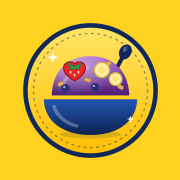
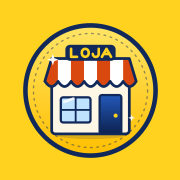
Add files via upload

Changed region(s): [[0.2222, 0.2222, 0.7778, 0.7778]]

diff --git a/painel-alerta.js b/painel-alerta.js
@@ -401,7 +401,7 @@ nav button[aria-current="page"]::before{filter:none;opacity:1;transform:translat
   var st=document.createElement('style');
   st.textContent='header{text-align:center}#logo{display:block;width:80px;height:80px;margin:0 auto 6px;filter:drop-shadow(0 8px 12px rgba(0,0,0,.35));animation:logoIn .7s cubic-bezier(.2,1.3,.4,1) both,logoFloat 4.5s ease-in-out .8s infinite}#logo svg{display:block;width:100%;height:100%}#ptag{display:inline-block;margin:0 0 6px;padding:2px 12px;border-radius:99px;background:rgba(255,255,255,.16);color:#fff;font-size:11px;font-weight:800;letter-spacing:.1em;text-transform:uppercase}@keyframes logoIn{from{opacity:0;transform:scale(.6) rotate(-10deg)}}@keyframes logoFloat{0%,100%{transform:translateY(0)}50%{transform:translateY(-4px)}}@media (prefers-reduced-motion:reduce){#logo{animation:none}}';
   document.head.appendChild(st);
-  var d=document.createElement('div');d.id='logo';d.innerHTML=`<svg xmlns="http://www.w3.org/2000/svg" viewBox="0 0 120 120" role="img" aria-label="Loja Andrea"><defs><linearGradient id="lgBg" x1="0" y1="0" x2="0" y2="1"><stop offset="0" stop-color="#ffe566"/><stop offset="1" stop-color="#ffbf00"/></linearGradient><linearGradient id="lgBowl" x1="0" y1="0" x2="0" y2="1"><stop offset="0" stop-color="#2358b8"/><stop offset="1" stop-color="#0d2250"/></linearGradient><linearGradient id="lgAcai" x1="0" y1="0" x2="0" y2="1"><stop offset="0" stop-color="#9b4dc4"/><stop offset="1" stop-color="#4b1c70"/></linearGradient><radialGradient id="lgShine" cx=".3" cy=".25" r=".7"><stop offset="0" stop-color="#fff" stop-opacity=".55"/><stop offset="1" stop-color="#fff" stop-opacity="0"/></radialGradient></defs><circle cx="60" cy="60" r="57" fill="url(#lgBg)" stroke="#10295a" stroke-width="4"/><circle cx="60" cy="60" r="50" fill="none" stroke="#10295a" stroke-width="1.2" stroke-dasharray="1.5 4" stroke-linecap="round" opacity=".45"/><ellipse cx="60" cy="98.5" rx="27" ry="3.6" fill="#10295a" opacity=".16"/><g transform="translate(80 46) rotate(28) scale(.8)"><rect x="-2.2" y="-26" width="4.4" height="32" rx="2.2" fill="#10295a"/><ellipse cx="0" cy="-28" rx="6.6" ry="8.6" fill="#10295a"/><ellipse cx="-1.7" cy="-30.6" rx="2" ry="3.4" fill="#fff" opacity=".25"/></g><path d="M26 66C26 43 40 30 60 30s34 13 34 36z" fill="url(#lgAcai)"/><path d="M26 66C26 43 40 30 60 30s34 13 34 36z" fill="url(#lgShine)"/><path d="M36 54c5-9 12-13 21-14" fill="none" stroke="#fff" stroke-opacity=".3" stroke-width="3.2" stroke-linecap="round"/><g fill="#e2b265" stroke="#b9853a" stroke-width=".6"><rect x="31" y="53" width="5.5" height="3.2" rx="1.4" transform="rotate(-28 33 54)"/><rect x="55" y="49" width="5.5" height="3.2" rx="1.4" transform="rotate(14 57 50)"/><rect x="84" y="55" width="5.5" height="3.2" rx="1.4" transform="rotate(32 86 56)"/><rect x="73" y="35" width="5" height="3" rx="1.4" transform="rotate(-18 75 36)"/></g><g stroke="#d9b13c" stroke-width="1.1"><circle cx="70" cy="42" r="6.6" fill="#fff0a8"/><circle cx="70" cy="42" r="3" fill="#ffe27a" stroke="none"/><circle cx="82" cy="50" r="5.6" fill="#fff0a8"/><circle cx="82" cy="50" r="2.5" fill="#ffe27a" stroke="none"/></g><path d="M46 36.5c-3.4-3.4-10-1.2-9.6 4.3.4 4.6 5.4 8.6 9.6 10.7 4.2-2.1 9.2-6.1 9.6-10.7.4-5.5-6.2-7.7-9.6-4.3z" fill="#e8252b" stroke="#a81218" stroke-width="1"/><path d="M40.5 36l5.5 3.2 5.5-3.2-1.8 5.2h-7.4z" fill="#2fa04e" stroke="#1f7a39" stroke-width=".8" stroke-linejoin="round"/><g fill="#ffe3b0"><ellipse cx="42.5" cy="44" rx=".8" ry="1.2"/><ellipse cx="46" cy="46.5" rx=".8" ry="1.2"/><ellipse cx="49.5" cy="44" rx=".8" ry="1.2"/></g><g><circle cx="38" cy="58" r="3.6" fill="#2b2f7a"/><circle cx="37" cy="57" r="1" fill="#fff" opacity=".6"/><circle cx="64" cy="57" r="3.6" fill="#2b2f7a"/><circle cx="63" cy="56" r="1" fill="#fff" opacity=".6"/></g><path d="M19 66h82c0 22-18 33-41 33S19 88 19 66z" fill="url(#lgBowl)"/><path d="M19 66h82" stroke="#ffd21f" stroke-width="3.4" stroke-linecap="round"/><path d="M28 74c3 9 11 15 20 17" fill="none" stroke="#fff" stroke-opacity=".28" stroke-width="3" stroke-linecap="round"/><path transform="translate(27 31)" d="M0-5 1.3-1.3 5 0 1.3 1.3 0 5-1.3 1.3-5 0-1.3-1.3Z" fill="#fff" opacity=".95"/><path transform="translate(95 85) scale(.6)" d="M0-5 1.3-1.3 5 0 1.3 1.3 0 5-1.3 1.3-5 0-1.3-1.3Z" fill="#fff" opacity=".9"/></svg>`;
+  var d=document.createElement('div');d.id='logo';d.innerHTML=`<svg xmlns="http://www.w3.org/2000/svg" viewBox="0 0 120 120" role="img" aria-label="Loja"><defs><linearGradient id="lgBg" x1="0" y1="0" x2="0" y2="1"><stop offset="0" stop-color="#ffe566"/><stop offset="1" stop-color="#ffbf00"/></linearGradient><linearGradient id="lgNavy" x1="0" y1="0" x2="0" y2="1"><stop offset="0" stop-color="#2358b8"/><stop offset="1" stop-color="#0d2250"/></linearGradient><clipPath id="lgClip"><path d="M20 52L26 32H94L100 52q-5.7 9-11.4 0q-5.7 9-11.4 0q-5.7 9-11.4 0q-5.7 9-11.4 0q-5.7 9-11.4 0q-5.7 9-11.4 0q-5.7 9-11.4 0Z"/></clipPath></defs><circle cx="60" cy="60" r="57" fill="url(#lgBg)" stroke="#10295a" stroke-width="4"/><circle cx="60" cy="60" r="50" fill="none" stroke="#10295a" stroke-width="1.2" stroke-dasharray="1.5 4" stroke-linecap="round" opacity=".45"/><ellipse cx="60" cy="99" rx="31" ry="3.6" fill="#10295a" opacity=".16"/><rect x="26" y="52" width="68" height="46" rx="3" fill="#fff7e6" stroke="#10295a" stroke-width="2.4"/><rect x="34" y="66" width="26" height="22" rx="2" fill="#bfe3ff" stroke="#10295a" stroke-width="2"/><path d="M34 77h26M47 66v22" stroke="#10295a" stroke-width="1.6"/><path d="M37 70l8-3" stroke="#fff" stroke-width="2.2" stroke-linecap="round" opacity=".85"/><rect x="68" y="64" width="19" height="34" rx="2" fill="url(#lgNavy)" stroke="#10295a" stroke-width="2"/><circle cx="82" cy="82" r="1.8" fill="#ffd21f"/><g clip-path="url(#lgClip)"><rect x="20" y="30" width="80" height="34" fill="#fff"/><rect x="20.00" y="32" width="11.43" height="32" fill="#d9480f"/><rect x="42.86" y="32" width="11.43" height="32" fill="#d9480f"/><rect x="65.72" y="32" width="11.43" height="32" fill="#d9480f"/><rect x="88.58" y="32" width="11.43" height="32" fill="#d9480f"/></g><path d="M20 52L26 32H94L100 52q-5.7 9-11.4 0q-5.7 9-11.4 0q-5.7 9-11.4 0q-5.7 9-11.4 0q-5.7 9-11.4 0q-5.7 9-11.4 0q-5.7 9-11.4 0Z" fill="none" stroke="#10295a" stroke-width="2.4" stroke-linejoin="round"/><rect x="38" y="20" width="44" height="14" rx="4" fill="#10295a"/><g fill="none" stroke="#ffd21f" stroke-width="2.3" stroke-linecap="round" stroke-linejoin="round"><path d="M43 23.5V30.5H48.2"/><rect x="52.4" y="23.5" width="6" height="7" rx="3"/><path d="M67.2 23.5V28a2.6 2.6 0 0 1-5.2 0"/><path d="M70 30.5L74 23.5L78 30.5M71.8 28H76.2"/></g><path transform="translate(27 33)" d="M0-5 1.3-1.3 5 0 1.3 1.3 0 5-1.3 1.3-5 0-1.3-1.3Z" fill="#fff" opacity=".95"/><path transform="translate(96 84) scale(.6)" d="M0-5 1.3-1.3 5 0 1.3 1.3 0 5-1.3 1.3-5 0-1.3-1.3Z" fill="#fff" opacity=".9"/></svg>`;
   var g=document.createElement('div');g.id='ptag';g.textContent='Painel do dono';
   h.insertBefore(d,h.firstChild);d.after(g);
 })();

diff --git a/acai-tab.js b/acai-tab.js
@@ -253,7 +253,7 @@ var prep=0,pbox=null,pn=null;
   var st=document.createElement('style');
   st.textContent='#logo{display:block;width:88px;height:88px;margin:0 auto 6px;filter:drop-shadow(0 8px 10px rgba(16,41,90,.3));animation:logoIn .7s cubic-bezier(.2,1.3,.4,1) both,logoFloat 4.5s ease-in-out .8s infinite}#logo svg{display:block;width:100%;height:100%}header .hrow{flex-direction:column;align-items:center;text-align:center;position:relative}header .hrow #outb{position:absolute;right:0;top:0}@keyframes logoIn{from{opacity:0;transform:scale(.6) rotate(-10deg)}}@keyframes logoFloat{0%,100%{transform:translateY(0)}50%{transform:translateY(-4px)}}@media (prefers-reduced-motion:reduce){#logo{animation:none}}';
   document.head.appendChild(st);
-  var d=document.createElement('div');d.id='logo';d.innerHTML=`<svg xmlns="http://www.w3.org/2000/svg" viewBox="0 0 120 120" role="img" aria-label="Loja Andrea"><defs><linearGradient id="lgBg" x1="0" y1="0" x2="0" y2="1"><stop offset="0" stop-color="#ffe566"/><stop offset="1" stop-color="#ffbf00"/></linearGradient><linearGradient id="lgBowl" x1="0" y1="0" x2="0" y2="1"><stop offset="0" stop-color="#2358b8"/><stop offset="1" stop-color="#0d2250"/></linearGradient><linearGradient id="lgAcai" x1="0" y1="0" x2="0" y2="1"><stop offset="0" stop-color="#9b4dc4"/><stop offset="1" stop-color="#4b1c70"/></linearGradient><radialGradient id="lgShine" cx=".3" cy=".25" r=".7"><stop offset="0" stop-color="#fff" stop-opacity=".55"/><stop offset="1" stop-color="#fff" stop-opacity="0"/></radialGradient></defs><circle cx="60" cy="60" r="57" fill="url(#lgBg)" stroke="#10295a" stroke-width="4"/><circle cx="60" cy="60" r="50" fill="none" stroke="#10295a" stroke-width="1.2" stroke-dasharray="1.5 4" stroke-linecap="round" opacity=".45"/><ellipse cx="60" cy="98.5" rx="27" ry="3.6" fill="#10295a" opacity=".16"/><g transform="translate(80 46) rotate(28) scale(.8)"><rect x="-2.2" y="-26" width="4.4" height="32" rx="2.2" fill="#10295a"/><ellipse cx="0" cy="-28" rx="6.6" ry="8.6" fill="#10295a"/><ellipse cx="-1.7" cy="-30.6" rx="2" ry="3.4" fill="#fff" opacity=".25"/></g><path d="M26 66C26 43 40 30 60 30s34 13 34 36z" fill="url(#lgAcai)"/><path d="M26 66C26 43 40 30 60 30s34 13 34 36z" fill="url(#lgShine)"/><path d="M36 54c5-9 12-13 21-14" fill="none" stroke="#fff" stroke-opacity=".3" stroke-width="3.2" stroke-linecap="round"/><g fill="#e2b265" stroke="#b9853a" stroke-width=".6"><rect x="31" y="53" width="5.5" height="3.2" rx="1.4" transform="rotate(-28 33 54)"/><rect x="55" y="49" width="5.5" height="3.2" rx="1.4" transform="rotate(14 57 50)"/><rect x="84" y="55" width="5.5" height="3.2" rx="1.4" transform="rotate(32 86 56)"/><rect x="73" y="35" width="5" height="3" rx="1.4" transform="rotate(-18 75 36)"/></g><g stroke="#d9b13c" stroke-width="1.1"><circle cx="70" cy="42" r="6.6" fill="#fff0a8"/><circle cx="70" cy="42" r="3" fill="#ffe27a" stroke="none"/><circle cx="82" cy="50" r="5.6" fill="#fff0a8"/><circle cx="82" cy="50" r="2.5" fill="#ffe27a" stroke="none"/></g><path d="M46 36.5c-3.4-3.4-10-1.2-9.6 4.3.4 4.6 5.4 8.6 9.6 10.7 4.2-2.1 9.2-6.1 9.6-10.7.4-5.5-6.2-7.7-9.6-4.3z" fill="#e8252b" stroke="#a81218" stroke-width="1"/><path d="M40.5 36l5.5 3.2 5.5-3.2-1.8 5.2h-7.4z" fill="#2fa04e" stroke="#1f7a39" stroke-width=".8" stroke-linejoin="round"/><g fill="#ffe3b0"><ellipse cx="42.5" cy="44" rx=".8" ry="1.2"/><ellipse cx="46" cy="46.5" rx=".8" ry="1.2"/><ellipse cx="49.5" cy="44" rx=".8" ry="1.2"/></g><g><circle cx="38" cy="58" r="3.6" fill="#2b2f7a"/><circle cx="37" cy="57" r="1" fill="#fff" opacity=".6"/><circle cx="64" cy="57" r="3.6" fill="#2b2f7a"/><circle cx="63" cy="56" r="1" fill="#fff" opacity=".6"/></g><path d="M19 66h82c0 22-18 33-41 33S19 88 19 66z" fill="url(#lgBowl)"/><path d="M19 66h82" stroke="#ffd21f" stroke-width="3.4" stroke-linecap="round"/><path d="M28 74c3 9 11 15 20 17" fill="none" stroke="#fff" stroke-opacity=".28" stroke-width="3" stroke-linecap="round"/><path transform="translate(27 31)" d="M0-5 1.3-1.3 5 0 1.3 1.3 0 5-1.3 1.3-5 0-1.3-1.3Z" fill="#fff" opacity=".95"/><path transform="translate(95 85) scale(.6)" d="M0-5 1.3-1.3 5 0 1.3 1.3 0 5-1.3 1.3-5 0-1.3-1.3Z" fill="#fff" opacity=".9"/></svg>`;
+  var d=document.createElement('div');d.id='logo';d.innerHTML=`<svg xmlns="http://www.w3.org/2000/svg" viewBox="0 0 120 120" role="img" aria-label="Loja"><defs><linearGradient id="lgBg" x1="0" y1="0" x2="0" y2="1"><stop offset="0" stop-color="#ffe566"/><stop offset="1" stop-color="#ffbf00"/></linearGradient><linearGradient id="lgNavy" x1="0" y1="0" x2="0" y2="1"><stop offset="0" stop-color="#2358b8"/><stop offset="1" stop-color="#0d2250"/></linearGradient><clipPath id="lgClip"><path d="M20 52L26 32H94L100 52q-5.7 9-11.4 0q-5.7 9-11.4 0q-5.7 9-11.4 0q-5.7 9-11.4 0q-5.7 9-11.4 0q-5.7 9-11.4 0q-5.7 9-11.4 0Z"/></clipPath></defs><circle cx="60" cy="60" r="57" fill="url(#lgBg)" stroke="#10295a" stroke-width="4"/><circle cx="60" cy="60" r="50" fill="none" stroke="#10295a" stroke-width="1.2" stroke-dasharray="1.5 4" stroke-linecap="round" opacity=".45"/><ellipse cx="60" cy="99" rx="31" ry="3.6" fill="#10295a" opacity=".16"/><rect x="26" y="52" width="68" height="46" rx="3" fill="#fff7e6" stroke="#10295a" stroke-width="2.4"/><rect x="34" y="66" width="26" height="22" rx="2" fill="#bfe3ff" stroke="#10295a" stroke-width="2"/><path d="M34 77h26M47 66v22" stroke="#10295a" stroke-width="1.6"/><path d="M37 70l8-3" stroke="#fff" stroke-width="2.2" stroke-linecap="round" opacity=".85"/><rect x="68" y="64" width="19" height="34" rx="2" fill="url(#lgNavy)" stroke="#10295a" stroke-width="2"/><circle cx="82" cy="82" r="1.8" fill="#ffd21f"/><g clip-path="url(#lgClip)"><rect x="20" y="30" width="80" height="34" fill="#fff"/><rect x="20.00" y="32" width="11.43" height="32" fill="#d9480f"/><rect x="42.86" y="32" width="11.43" height="32" fill="#d9480f"/><rect x="65.72" y="32" width="11.43" height="32" fill="#d9480f"/><rect x="88.58" y="32" width="11.43" height="32" fill="#d9480f"/></g><path d="M20 52L26 32H94L100 52q-5.7 9-11.4 0q-5.7 9-11.4 0q-5.7 9-11.4 0q-5.7 9-11.4 0q-5.7 9-11.4 0q-5.7 9-11.4 0q-5.7 9-11.4 0Z" fill="none" stroke="#10295a" stroke-width="2.4" stroke-linejoin="round"/><rect x="38" y="20" width="44" height="14" rx="4" fill="#10295a"/><g fill="none" stroke="#ffd21f" stroke-width="2.3" stroke-linecap="round" stroke-linejoin="round"><path d="M43 23.5V30.5H48.2"/><rect x="52.4" y="23.5" width="6" height="7" rx="3"/><path d="M67.2 23.5V28a2.6 2.6 0 0 1-5.2 0"/><path d="M70 30.5L74 23.5L78 30.5M71.8 28H76.2"/></g><path transform="translate(27 33)" d="M0-5 1.3-1.3 5 0 1.3 1.3 0 5-1.3 1.3-5 0-1.3-1.3Z" fill="#fff" opacity=".95"/><path transform="translate(96 84) scale(.6)" d="M0-5 1.3-1.3 5 0 1.3 1.3 0 5-1.3 1.3-5 0-1.3-1.3Z" fill="#fff" opacity=".9"/></svg>`;
   hrow.insertBefore(d,hrow.firstChild);
 })();
 
